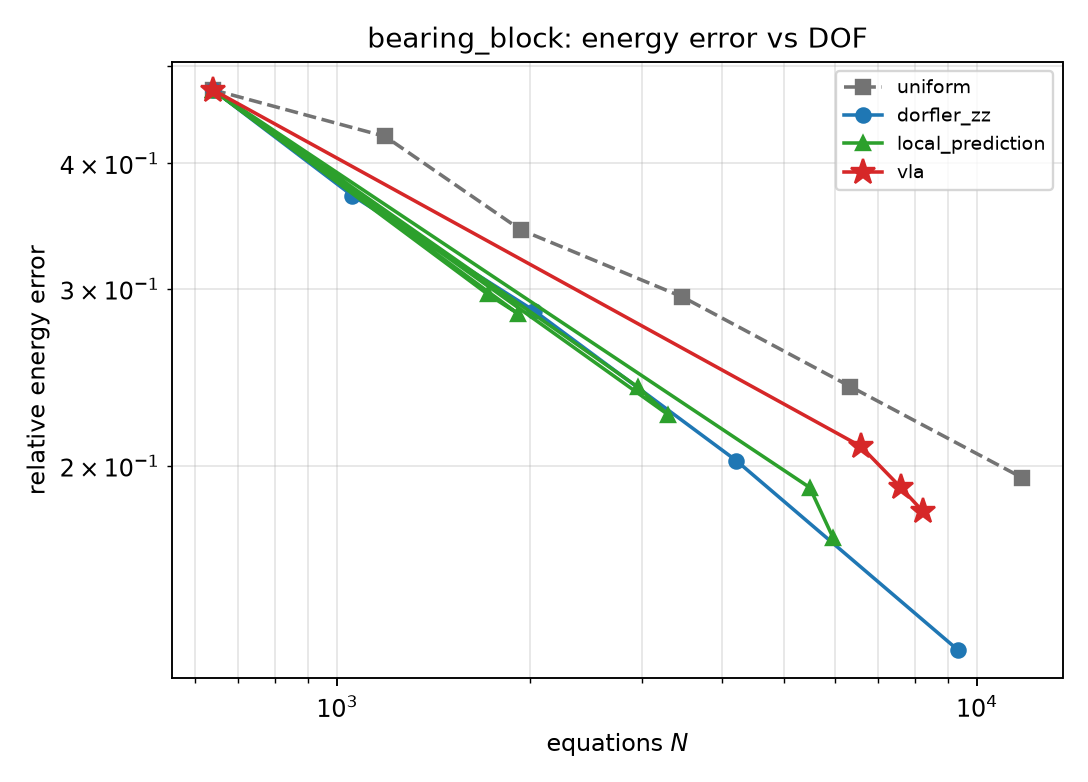
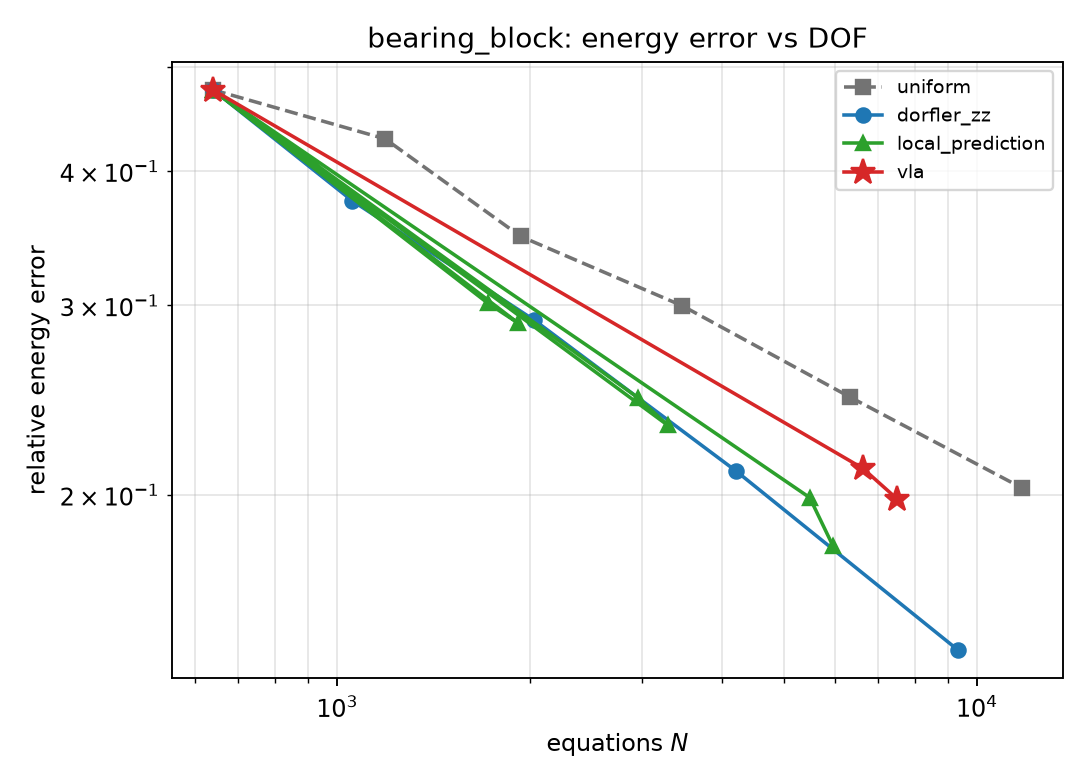
Counter local-prediction weaknesses: measured-exponent negotiation, tighten-only drift feedback, trust region, in-place certification, best-compliant deliverable

diff --git a/visionamr/vla/pipeline.py b/visionamr/vla/pipeline.py
@@ -40,6 +40,11 @@ class VLAConfig:
     early_stop: bool = True
     gradation: float = 0.9
     init_ratio_bounds: tuple[float, float] = (1.0 / 8.0, 1.8)
+    pso_pos_bound_later: float = 0.45  # trust region after the first jump
+    final_budget_safety: float = 0.85  # certification round: never overshoot
+    min_predicted_gain: float = 0.15   # else certify the current mesh in place
+    inplace_min_use: float = 0.88      # in-place certification needs a
+                                       # nearly exhausted budget
     agent: AgentConfig = field(default_factory=AgentConfig)
     pso: PSOConfig = field(default_factory=PSOConfig)
 
@@ -128,15 +133,16 @@ def run_vla(
     history: list[tuple[np.ndarray, np.ndarray]] = [
         (np.full(len(seeds), problem.h0), feats.err_sum.copy())
     ]
+    sur = fit_surrogate(part, feats, np.full(len(seeds), problem.h0), [], cfg.pso)
     h_agent, round_info = communication_round(
         part, feats, adjacency,
         n_eq_budget=cfg.n_eq_budget, eq_per_elem=eq_per_elem, cfg=cfg.agent,
+        p_vec=sur.q,
     )
     # blend: equidistribution magnitudes with the negotiated correction
     h_plus = np.clip(
         np.sqrt(h_init * h_agent), problem.h_min, problem.h0
     )
-    sur = fit_surrogate(part, feats, np.full(len(seeds), problem.h0), [], cfg.pso)
     A = part.adjacency_matrix(mesh, labels)
     h_cal, pso_info = calibrate(
         part, h_plus, sur, A,
@@ -188,10 +194,18 @@ def run_vla(
             break
 
         # ---- decide the next mesh ---------------------------------------
+        # measured resource drift: realized elements vs the surrogate's
+        # prediction for this mesh (gradation-band overhead correction)
+        drift = 1.0
+        if pso_info.get("R_pred_elems"):
+            drift = rec.n_elems / max(pso_info["R_pred_elems"], 1.0)
+
         adjacency = part.adjacency(mesh, labels)
+        sur_pre = fit_surrogate(part, feats, anchor_h, history, cfg.pso)
         h_agent, round_info = communication_round(
             part, feats, adjacency,
             n_eq_budget=cfg.n_eq_budget, eq_per_elem=eq_per_elem, cfg=cfg.agent,
+            p_vec=sur_pre.q,
         )
         part_next = part.with_sizes(h_agent)
 
@@ -213,14 +227,39 @@ def run_vla(
                 ]
                 anchor_vec = np.concatenate([anchor_h, np.array(extra_anchor)])
 
+        from dataclasses import replace as _replace
+
+        next_is_final = solve_idx + 1 == cfg.max_solves
+        pso_cfg = _replace(
+            cfg.pso,
+            pos_bound=cfg.pso_pos_bound_later,
+            budget_safety=(
+                cfg.final_budget_safety if next_is_final else cfg.pso.budget_safety
+            ),
+        )
         sur = fit_surrogate(part_next, feats, anchor_vec, history, cfg.pso)
         A = part_next.adjacency_matrix(mesh, labels)
         h_cal, pso_info = calibrate(
             part_next, part_next.sizes(), sur, A,
             err_limit=err_limit, n_eq_budget=cfg.n_eq_budget,
-            eq_per_elem=eq_per_elem, cfg=cfg.pso,
+            eq_per_elem=eq_per_elem, resource_drift=drift, cfg=pso_cfg,
         )
         s_last, k_last = pso_info["s"], pso_info["kappa"]
+
+        # certify in place: the budget is nearly exhausted by a compliant
+        # mesh and the surrogate predicts too little gain for another solve
+        E_now = float(eta2.sum())
+        if (
+            cfg.early_stop
+            and cfg.inplace_min_use * cfg.n_eq_budget
+            <= rec.n_equations
+            <= cfg.n_eq_budget
+            and pso_info["E_pred"] > (1.0 - cfg.min_predicted_gain) * E_now
+        ):
+            rec.extra["certified_inplace"] = True
+            stopped_early = True
+            break
+
         history.append((anchor_vec.copy(), feats.err_sum.copy()))
         part = part_next.with_sizes(h_cal)
 
@@ -229,6 +268,19 @@ def run_vla(
     gate = len(ns) == len(vla_records)
     if not gate:
         vla_records[-1].extra["failure_scenario"] = "equation_counts_collide"
+
+    # deliverable: among the solved, budget-compliant meshes pick the one
+    # the method's own indicator ranks best (no oracle involved; standard
+    # return-best-iterate semantics of iterative optimizers)
+    candidates = [
+        r
+        for r in vla_records[1:]
+        if r.n_equations <= cfg.n_eq_budget and "sum_eta2" in r.extra
+    ]
+    if not candidates:
+        candidates = vla_records[1:] or vla_records
+    pick = min(candidates, key=lambda r: r.extra.get("sum_eta2", float("inf")))
+    pick.extra["certified_pick"] = True
 
     return VLAResult(
         seeds_initial=seeds_initial,

diff --git a/tests/test_vla_units.py b/tests/test_vla_units.py
@@ -64,6 +64,61 @@ def test_pso_refines_when_error_limit_binds():
     assert info["s"] < 0.0  # must refine to chase the accuracy limit
 
 
+def test_resource_drift_tightens_budget():
+    """A measured overshoot (drift > 1) must shrink the effective budget."""
+
+    part, A = two_region_partition()
+    sur = Surrogate(
+        E_ref=np.array([1.0, 1.0]),
+        R_ref=np.array([1500.0, 1500.0]),
+        h_ref=np.array([0.1, 0.1]),
+        q=np.array([2.0, 2.0]),
+        d=2.0,
+    )
+    h_plain, info_plain = calibrate(
+        part, np.array([0.1, 0.1]), sur, A,
+        err_limit=1e9, n_eq_budget=4500, eq_per_elem=1.5, cfg=PSOConfig(seed=3),
+    )
+    h_drift, info_drift = calibrate(
+        part, np.array([0.1, 0.1]), sur, A,
+        err_limit=1e9, n_eq_budget=4500, eq_per_elem=1.5,
+        resource_drift=1.3, cfg=PSOConfig(seed=3),
+    )
+    assert info_drift["elems_budget"] < info_plain["elems_budget"]
+    _, R_plain = sur.predict(h_plain)
+    _, R_drift = sur.predict(h_drift)
+    assert R_drift < R_plain  # coarser sizes to compensate the overshoot
+
+
+def test_communication_round_uses_measured_exponents():
+    """Regions with a slow measured rate get treated more cautiously."""
+
+    import copy
+
+    from visionamr.vla.agents import AgentConfig, communication_round
+    from visionamr.vla.regions import RegionFeatures
+
+    part, _ = two_region_partition()
+    feats = RegionFeatures(
+        err_sum=np.array([5.0, 5.0]),      # same error excess
+        elems=np.array([1000.0, 1000.0]),  # resource exactly on target
+        vm_max=np.array([1.0, 1.0]),
+        vm_mean=np.array([1.0, 1.0]),
+        h_meas=np.array([0.1, 0.1]),
+        volume=np.array([0.6, 0.6]),
+        total_err=10.0,
+        total_elems=2000,
+    )
+    adjacency = [{1}, {0}]
+    # region 0 slow rate (singular, q=0.8), region 1 smooth (q=2.0)
+    h, info = communication_round(
+        part, feats, adjacency, n_eq_budget=3000, eq_per_elem=1.5,
+        cfg=AgentConfig(neighbor_coupling=0.0), p_vec=np.array([0.8, 2.0]),
+    )
+    d0, d1 = info["delta"]
+    assert d0 != d1  # measured rates differentiate otherwise identical regions
+
+
 def test_surrogate_dimension_changes_resource_scaling():
     sur2 = Surrogate(
         E_ref=np.array([1.0]), R_ref=np.array([1000.0]),

diff --git a/scripts/run_benchmark.py b/scripts/run_benchmark.py
@@ -128,7 +128,10 @@ def main() -> int:
             f"{r.e_energy:8.4f} {r.e_qoi:8.4f}"
         )
 
-    # headline: error at matched few solve counts (VLA target: beat Doerfler)
+    # headline: error at matched few solve counts (VLA target: beat Doerfler).
+    # The VLA column reports its deliverable after k solves: the solved,
+    # budget-compliant mesh its own indicator ranks best (return-best-iterate
+    # semantics; no oracle involved in the pick).
     by_method: dict[str, list] = {}
     for r in runner.records:
         by_method.setdefault(r.method, []).append(r)
@@ -140,9 +143,21 @@ def main() -> int:
     for r in by_method.get("local_prediction", []):
         lp.setdefault(r.extra.get("budget", 0), []).append(r)
     lp_best = max(lp.values(), key=lambda rr: rr[-1].n_equations) if lp else []
+
+    def vla_deliverable(k: int):
+        seen = vla[:k]
+        cands = [
+            r for r in seen[1:]
+            if r.n_equations <= args.n_eq_budget and "sum_eta2" in r.extra
+        ]
+        if not cands:
+            return seen[-1] if seen else None
+        return min(cands, key=lambda r: r.extra["sum_eta2"])
+
     for k in range(1, max(len(dor), len(vla)) + 1):
         d = f"{dor[k-1].e_energy:.4f}" if k <= len(dor) else "-"
-        v = f"{vla[k-1].e_energy:.4f}" if k <= len(vla) else "-"
+        vr = vla_deliverable(k) if k <= len(vla) else None
+        v = f"{vr.e_energy:.4f}" if vr is not None else "-"
         l = f"{lp_best[k-1].e_energy:.4f}" if k <= len(lp_best) else "-"
         print(f"{k:>3} {d:>10} {v:>10} {l:>18}")
 

diff --git a/visionamr/vla/agents.py b/visionamr/vla/agents.py
@@ -23,7 +23,7 @@ class AgentConfig:
     max_log_step: float = 0.35
     neighbor_coupling: float = 0.08
     global_share: float = 0.6
-    p_error: float = 1.3     # assumed local error order until measured
+    p_error: float = 2.0     # smooth-rate prior d log(sum eta^2)/d log h
     error_share_target: float = 0.7
 
 
@@ -35,8 +35,17 @@ def communication_round(
     n_eq_budget: int,
     eq_per_elem: float,
     cfg: AgentConfig | None = None,
+    p_vec: np.ndarray | None = None,
 ) -> tuple[np.ndarray, dict]:
-    """One round; returns (new region sizes, info)."""
+    """One round; returns (new region sizes, info).
+
+    ``p_vec`` supplies per-region *measured* error exponents (fitted from
+    two consecutive real solves).  This is the counter to the classic
+    one-shot remeshing failure mode: assuming one smooth convergence rate
+    everywhere is what makes ZZ-style prediction oscillate at
+    singularities (Onate-Bugeda 1993); the agents negotiate with the rate
+    each region actually exhibited.
+    """
 
     cfg = cfg or AgentConfig()
     problem = partition.problem
@@ -54,7 +63,10 @@ def communication_round(
     e_log = np.log(E_i / E_tgt)
     r_log = np.log(R_i / R_tgt)
 
-    p = cfg.p_error
+    if p_vec is not None:
+        p = np.clip(np.asarray(p_vec, dtype=float), 0.5, 5.0)
+    else:
+        p = np.full(R, cfg.p_error)
     denom = cfg.w_err * p**2 + cfg.w_res * d**2 + cfg.regularization
     delta = np.clip(
         (cfg.w_res * d * r_log - cfg.w_err * p * e_log) / denom,

diff --git a/visionamr/vla/pso.py b/visionamr/vla/pso.py
@@ -118,15 +118,25 @@ def calibrate(
     err_limit: float,
     n_eq_budget: int,
     eq_per_elem: float,
+    resource_drift: float = 1.0,
     cfg: PSOConfig | None = None,
 ) -> tuple[np.ndarray, dict]:
-    """PSO over (s, kappa) around the proposal h_plus; returns (sizes, info)."""
+    """PSO over (s, kappa) around the proposal h_plus; returns (sizes, info).
+
+    ``resource_drift`` is the measured realized/predicted element ratio of
+    the previous round (Gmsh gradation bands and mesh-generator behaviour
+    are not in the power-law surrogate).  Because the budget is a hard
+    cap, the correction may only *tighten* the surrogate budget (drift
+    clipped below at 1): under-realization is a soft cost, overshoot is a
+    contract violation.
+    """
 
     cfg = cfg or PSOConfig()
     problem = partition.problem
     rng = np.random.default_rng(cfg.seed)
     tau = transfer_direction(sur)
-    elems_budget = max(n_eq_budget / eq_per_elem, 1.0)
+    drift = float(np.clip(resource_drift, 1.0, 1.4))
+    elems_budget = max(n_eq_budget / eq_per_elem, 1.0) / drift
     edges = np.argwhere(np.triu(adjacency_matrix) > 0)
 
     def decode(s: float, k: float) -> np.ndarray:
@@ -230,5 +240,6 @@ def calibrate(
         "R_pred_elems": R_pred,
         "err_limit": err_limit,
         "elems_budget": elems_budget,
+        "resource_drift": drift,
     }
     return h_final, info

diff --git a/visionamr/mesher.py b/visionamr/mesher.py
@@ -34,6 +34,12 @@ def _ensure_gmsh() -> None:
         gmsh.initialize()
         gmsh.option.setNumber("General.Terminal", 0)
         gmsh.option.setNumber("General.Verbosity", 2)
+        # single-threaded meshing: bitwise-reproducible meshes (HXT is
+        # otherwise nondeterministic run-to-run)
+        gmsh.option.setNumber("General.NumThreads", 1)
+        gmsh.option.setNumber("Mesh.MaxNumThreads1D", 1)
+        gmsh.option.setNumber("Mesh.MaxNumThreads2D", 1)
+        gmsh.option.setNumber("Mesh.MaxNumThreads3D", 1)
         _GMSH_INITIALIZED = True
 
 

diff --git a/visionamr/geometry.py b/visionamr/geometry.py
@@ -187,7 +187,7 @@ def make_bearing_block(
         qoi_facet_predicate=patch_pred,
         material=Material(),
         h0=H / 2.4,          # 50 mm
-        h_ref=H / 9.0,       # ~13 mm background, graded to edges
+        h_ref=H / 10.0,      # 12 mm background, graded to edges
         h_min=H / 40.0,      # 3 mm
         bbox=(0, 0, 0, W, D, H),
         features=features,
